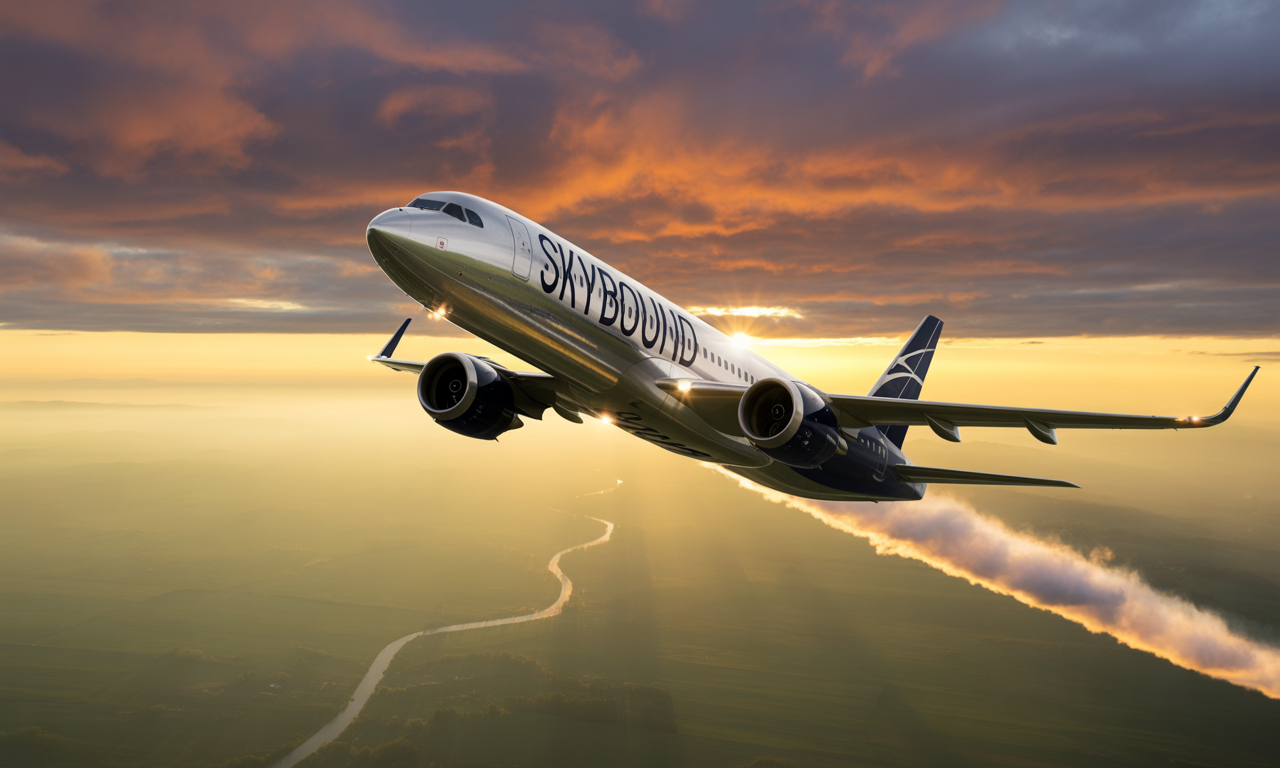
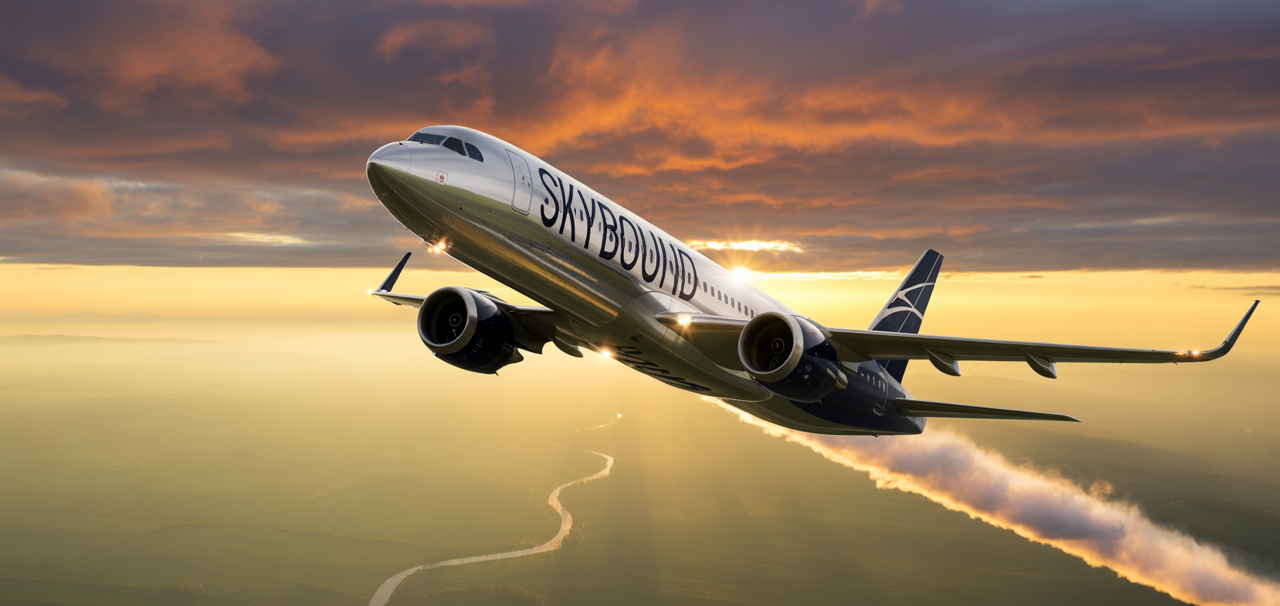
Travel page design changes

diff --git a/solutions/travel.html b/solutions/travel.html
@@ -32,14 +32,14 @@
       <section class="relative">
         <!-- Hero image centered -->
         <div class="w-full fade-in opacity-0">
-          <img src="/assets/img/travel/travel-banner.jpg" alt="Aspirational travel" class="mx-auto w-full max-h-[750px] object-cover" />
+          <img src="/assets/img/travel/travel-banner.jpg" alt="Aspirational travel" class="mx-auto w-full" />
         </div>
       </section>
 
       <section class="bg-white relative py-12 sm:py-16 md:py-20 lg:py-24 border-t border-white/10">
         <!-- Headline + copy below images -->
         <div class="relative max-w-7xl mx-auto px-4 sm:px-6 lg:px-8 text-center">
-          <img src="/assets/img/travel/hero2 3.png" alt="Aspirational travel" class="mx-auto w-full object-cover rounded-2xl  mb-8 fade-in opacity-0" />
+          <img src="/assets/img/travel/hero2 3.png" alt="Aspirational travel" class="mx-auto w-full rounded-2xl  mb-8 fade-in opacity-0" />
           <h1 class="text-4xl sm:text-6xl md:text-7xl max-w-5xl mx-auto font-bold text-[var(--brand-bg)] mt-8 fade-in opacity-0">
             Travel Rewards That Truly Move Your Customers
           </h1>
@@ -66,7 +66,7 @@
       <!-- ONE PLATFORM. ENDLESS JOURNEYS. -->
       <section id="learn-more" class="py-12 sm:py-16 md:py-20 lg:py-24">
         <div class="relative max-w-7xl mx-auto px-4 sm:px-6 lg:px-8">
-          <img src="/assets/img/travel/hotel.png" alt="Aspirational travel" class="mx-auto w-full max-h-[500px] object-cover rounded-2xl shadow-lg mb-8 md:mb-10 lg:mb-12 md:mb-16 fade-in opacity-0" />
+          <img src="/assets/img/travel/hotel.png" alt="Aspirational travel" class="mx-auto w-full rounded-2xl shadow-lg mb-8 md:mb-10 lg:mb-12 md:mb-16 fade-in opacity-0" />
           <h2 class="text-3xl sm:text-4xl font-bold text-white text-center fade-in opacity-0">One Platform. Endless Journeys.</h2>
           <p class="mt-4 text-center text-white/80 max-w-4xl mx-auto fade-in opacity-0">
             Your customers crave flexibility and choice in how they redeem. Our platform delivers access to
@@ -142,17 +142,17 @@
                 Split-pay stretches points further, making aspirational travel accessible.
               </p>
               <div class="mt-6 grid grid-cols-1 sm:grid-cols-3 gap-4">
-                <div class="rounded-lg p-4 uv-surface fade-in opacity-0">
+                <div class="rounded-lg p-4 uv-surface relative fade-in opacity-0">
                   <span class="material-symbols-outlined text-white text-xl md:text-2xl lg:text-3xl absolute right-5 top-4" style="font-size: 1.5rem;">redeem</span>
                   <h6 class="text-white text-base md:text-lg font-semibold">Points Only</h6>
                   <p class="text-white/80 text-sm mt-1">Maximize reward value with full redemptions.</p>
                 </div>
-                <div class="rounded-lg p-4 uv-surface fade-in opacity-0">
+                <div class="rounded-lg p-4 uv-surface relative fade-in opacity-0">
                   <span class="material-symbols-outlined text-white text-xl md:text-2xl lg:text-3xl absolute right-5 top-4" style="font-size: 1.5rem;">payments</span>
                   <h6 class="text-white text-base md:text-lg font-semibold">Cash Only</h6>
                   <p class="text-white/80 text-sm mt-1">Let members save points for future trips.</p>
                 </div>
-                <div class="rounded-lg p-4 uv-surface fade-in opacity-0">
+                <div class="rounded-lg p-4 uv-surface relative fade-in opacity-0">
                   <span class="material-symbols-outlined text-white text-xl md:text-2xl lg:text-3xl absolute right-5 top-4" style="font-size: 1.5rem;">split_scene</span>
                   <h6 class="text-white text-base md:text-lg font-semibold">Split-Pay</h6>
                   <p class="text-white/80 text-sm mt-1">Combine points + cash for flexibility.</p>
@@ -239,7 +239,7 @@
         </div>
         <p class="mt-5 text-center text-sm text-[var(--brand-bg)] fade-in opacity-0">*Versus traditional merchandise catalogs.</p>
 
-        <img src="/assets/img/travel/flight 2.png" alt="Flight" class="mx-auto w-full max-h-[500px] object-cover rounded-2xl shadow-lg fade-in opacity-0 mt-10" />
+        <img src="/assets/img/travel/flight 2.png" alt="Flight" class="mx-auto w-full rounded-2xl shadow-lg fade-in opacity-0 mt-10" />
         </div>
       </section>
 
@@ -277,7 +277,7 @@
       <section class="bg-white py-12 sm:py-16 md:py-20 lg:py-24">
         <div class="max-w-7xl mx-auto px-4 sm:px-6 lg:px-8">
           <div class="grid grid-cols-1 md:grid-cols-12 items-center gap-y-8 md:gap-y-0 md:gap-x-10">
-            <img src="/assets/img/travel/team.png" alt="Certified Team" class="mx-auto w-full object-cover rounded-2xl shadow-lg fade-in opacity-0 md:col-span-7" />
+            <img src="/assets/img/travel/team.png" alt="Certified Team" class="mx-auto w-full rounded-2xl shadow-lg fade-in opacity-0 md:col-span-7" />
             <div class="md:col-span-5">
               <div class="grid grid-cols-1 gap-4 md:gap-6 lg:gap-8">
                 <div class="uv-card uv-glow p-6 fade-in opacity-0">

diff --git a/assets/css/brand.css b/assets/css/brand.css
@@ -11,9 +11,15 @@
 }
 
 input[type="checkbox"] {
+  outline: none;
   width: 16px;
   height: 16px;
   border-radius: 3px;
+}
+
+input[type='checkbox']:checked::before {
+  -webkit-transform: scale(1);
+          transform: scale(1);
 }
 
 .fab,
